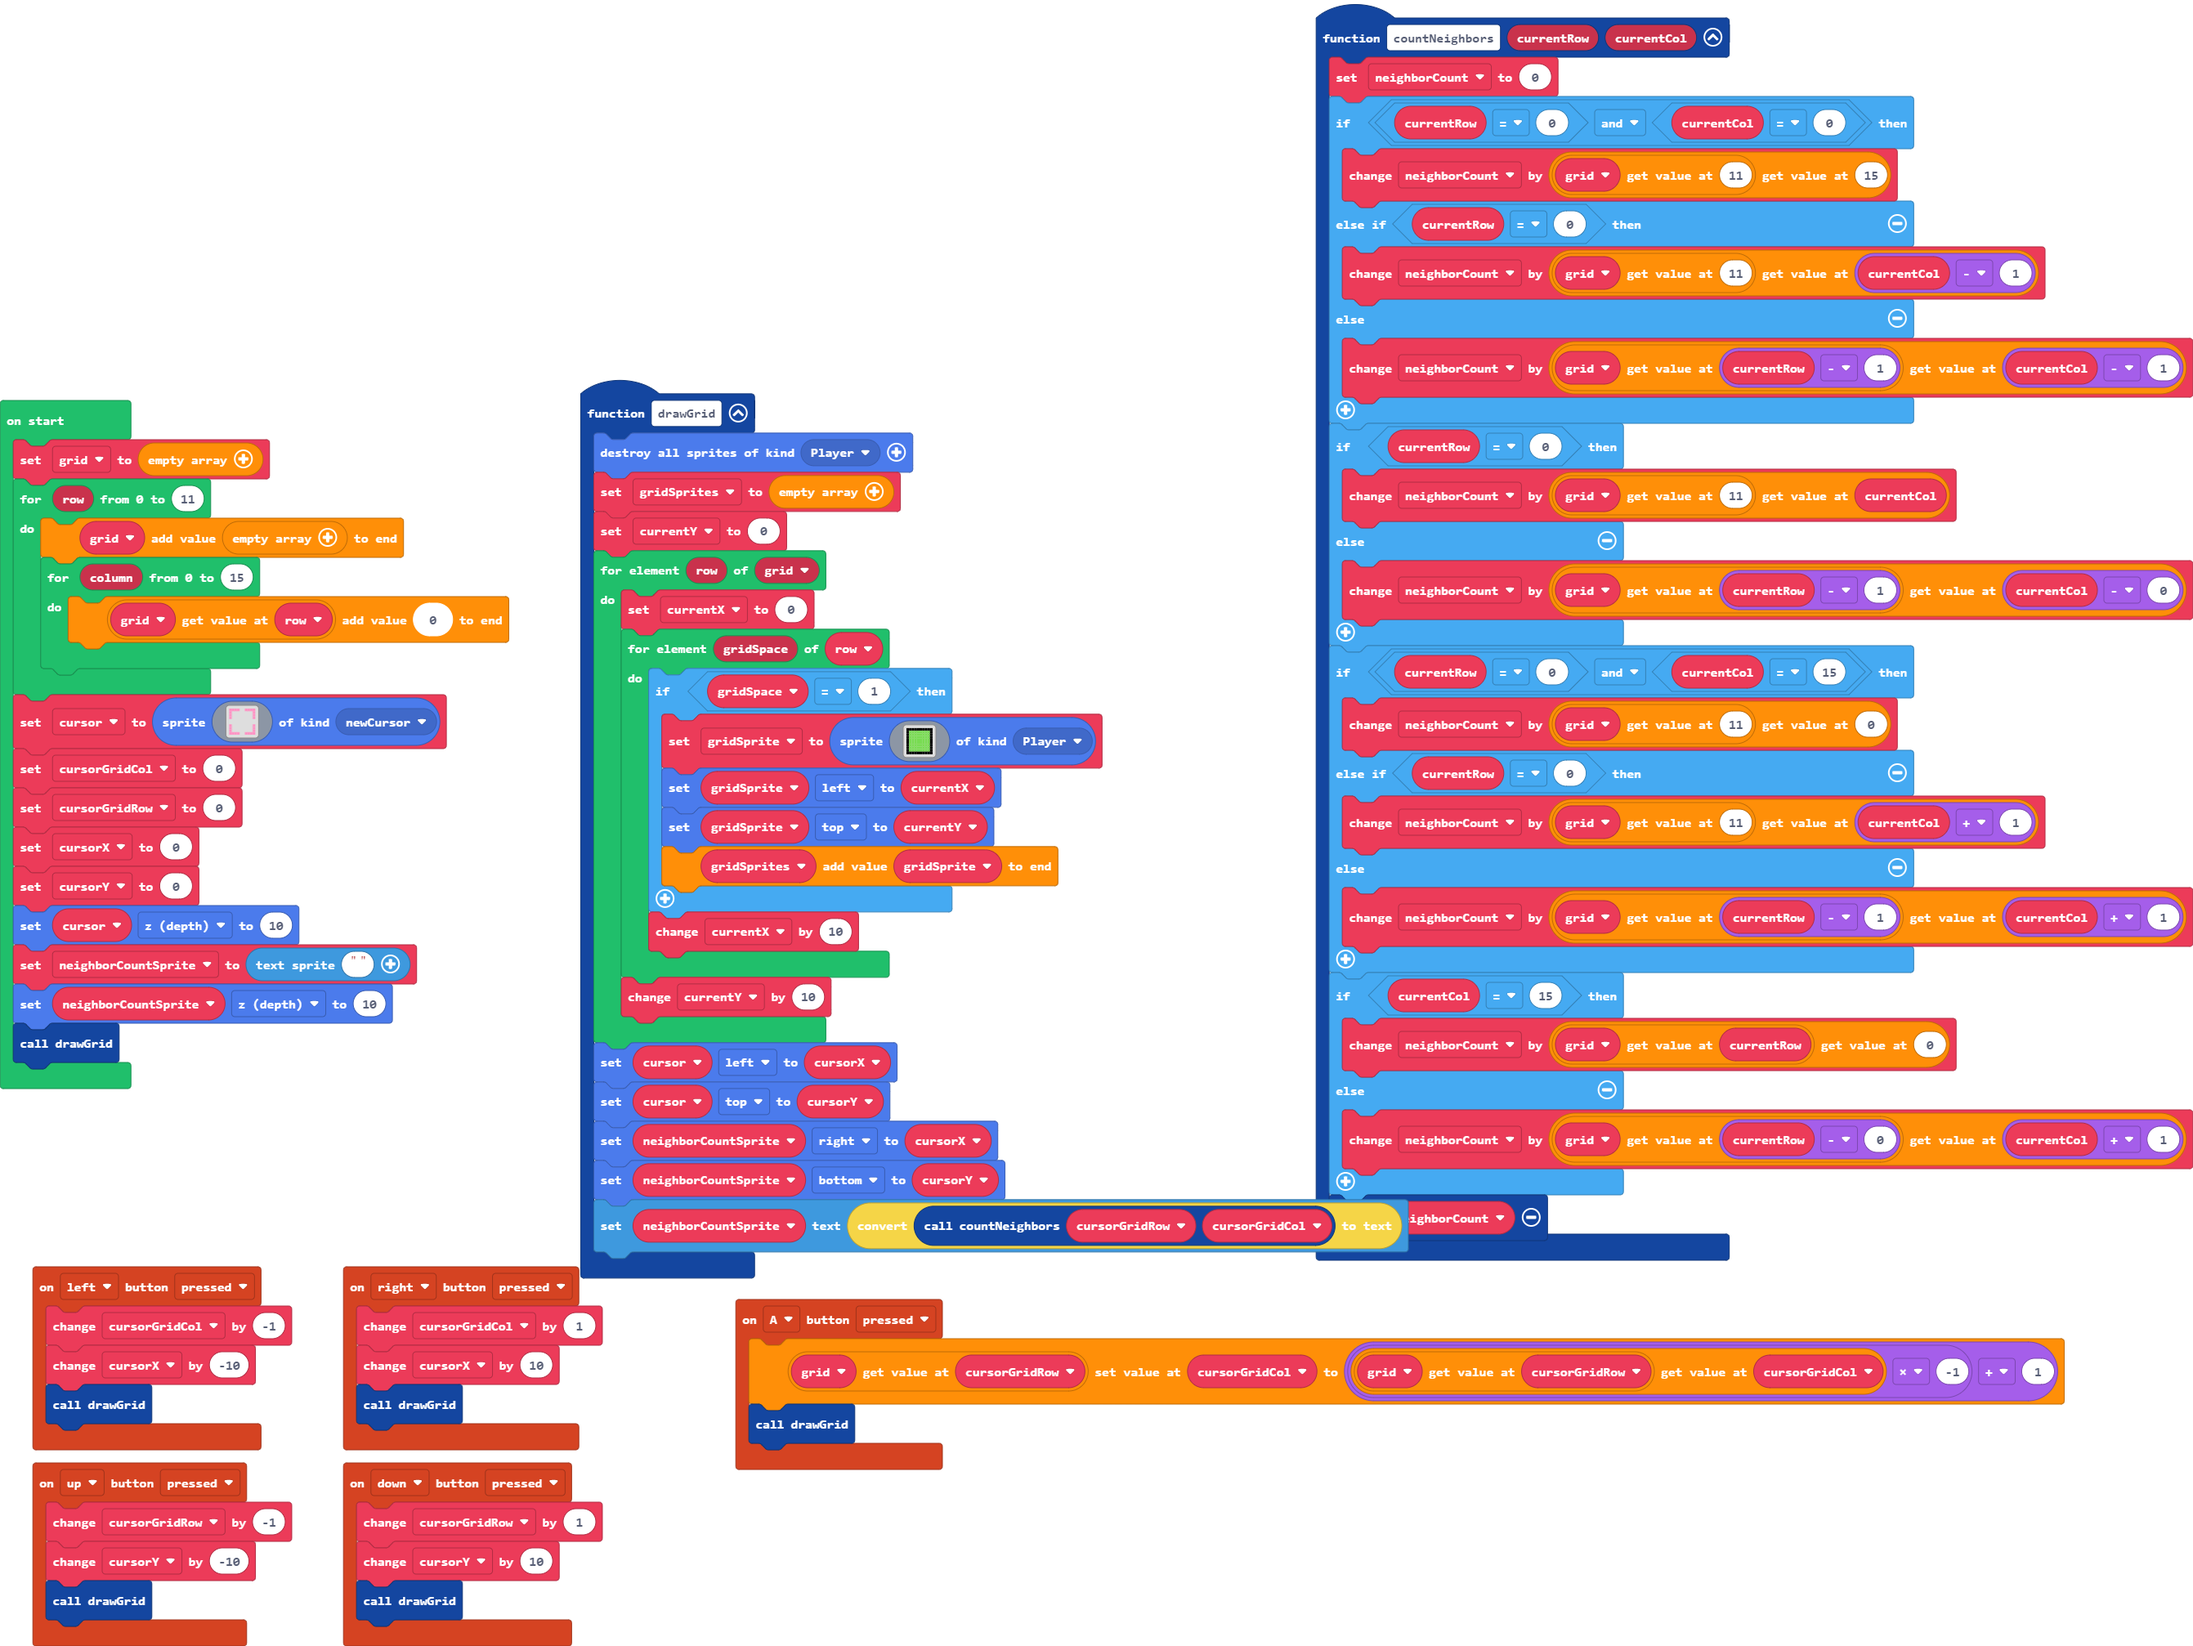
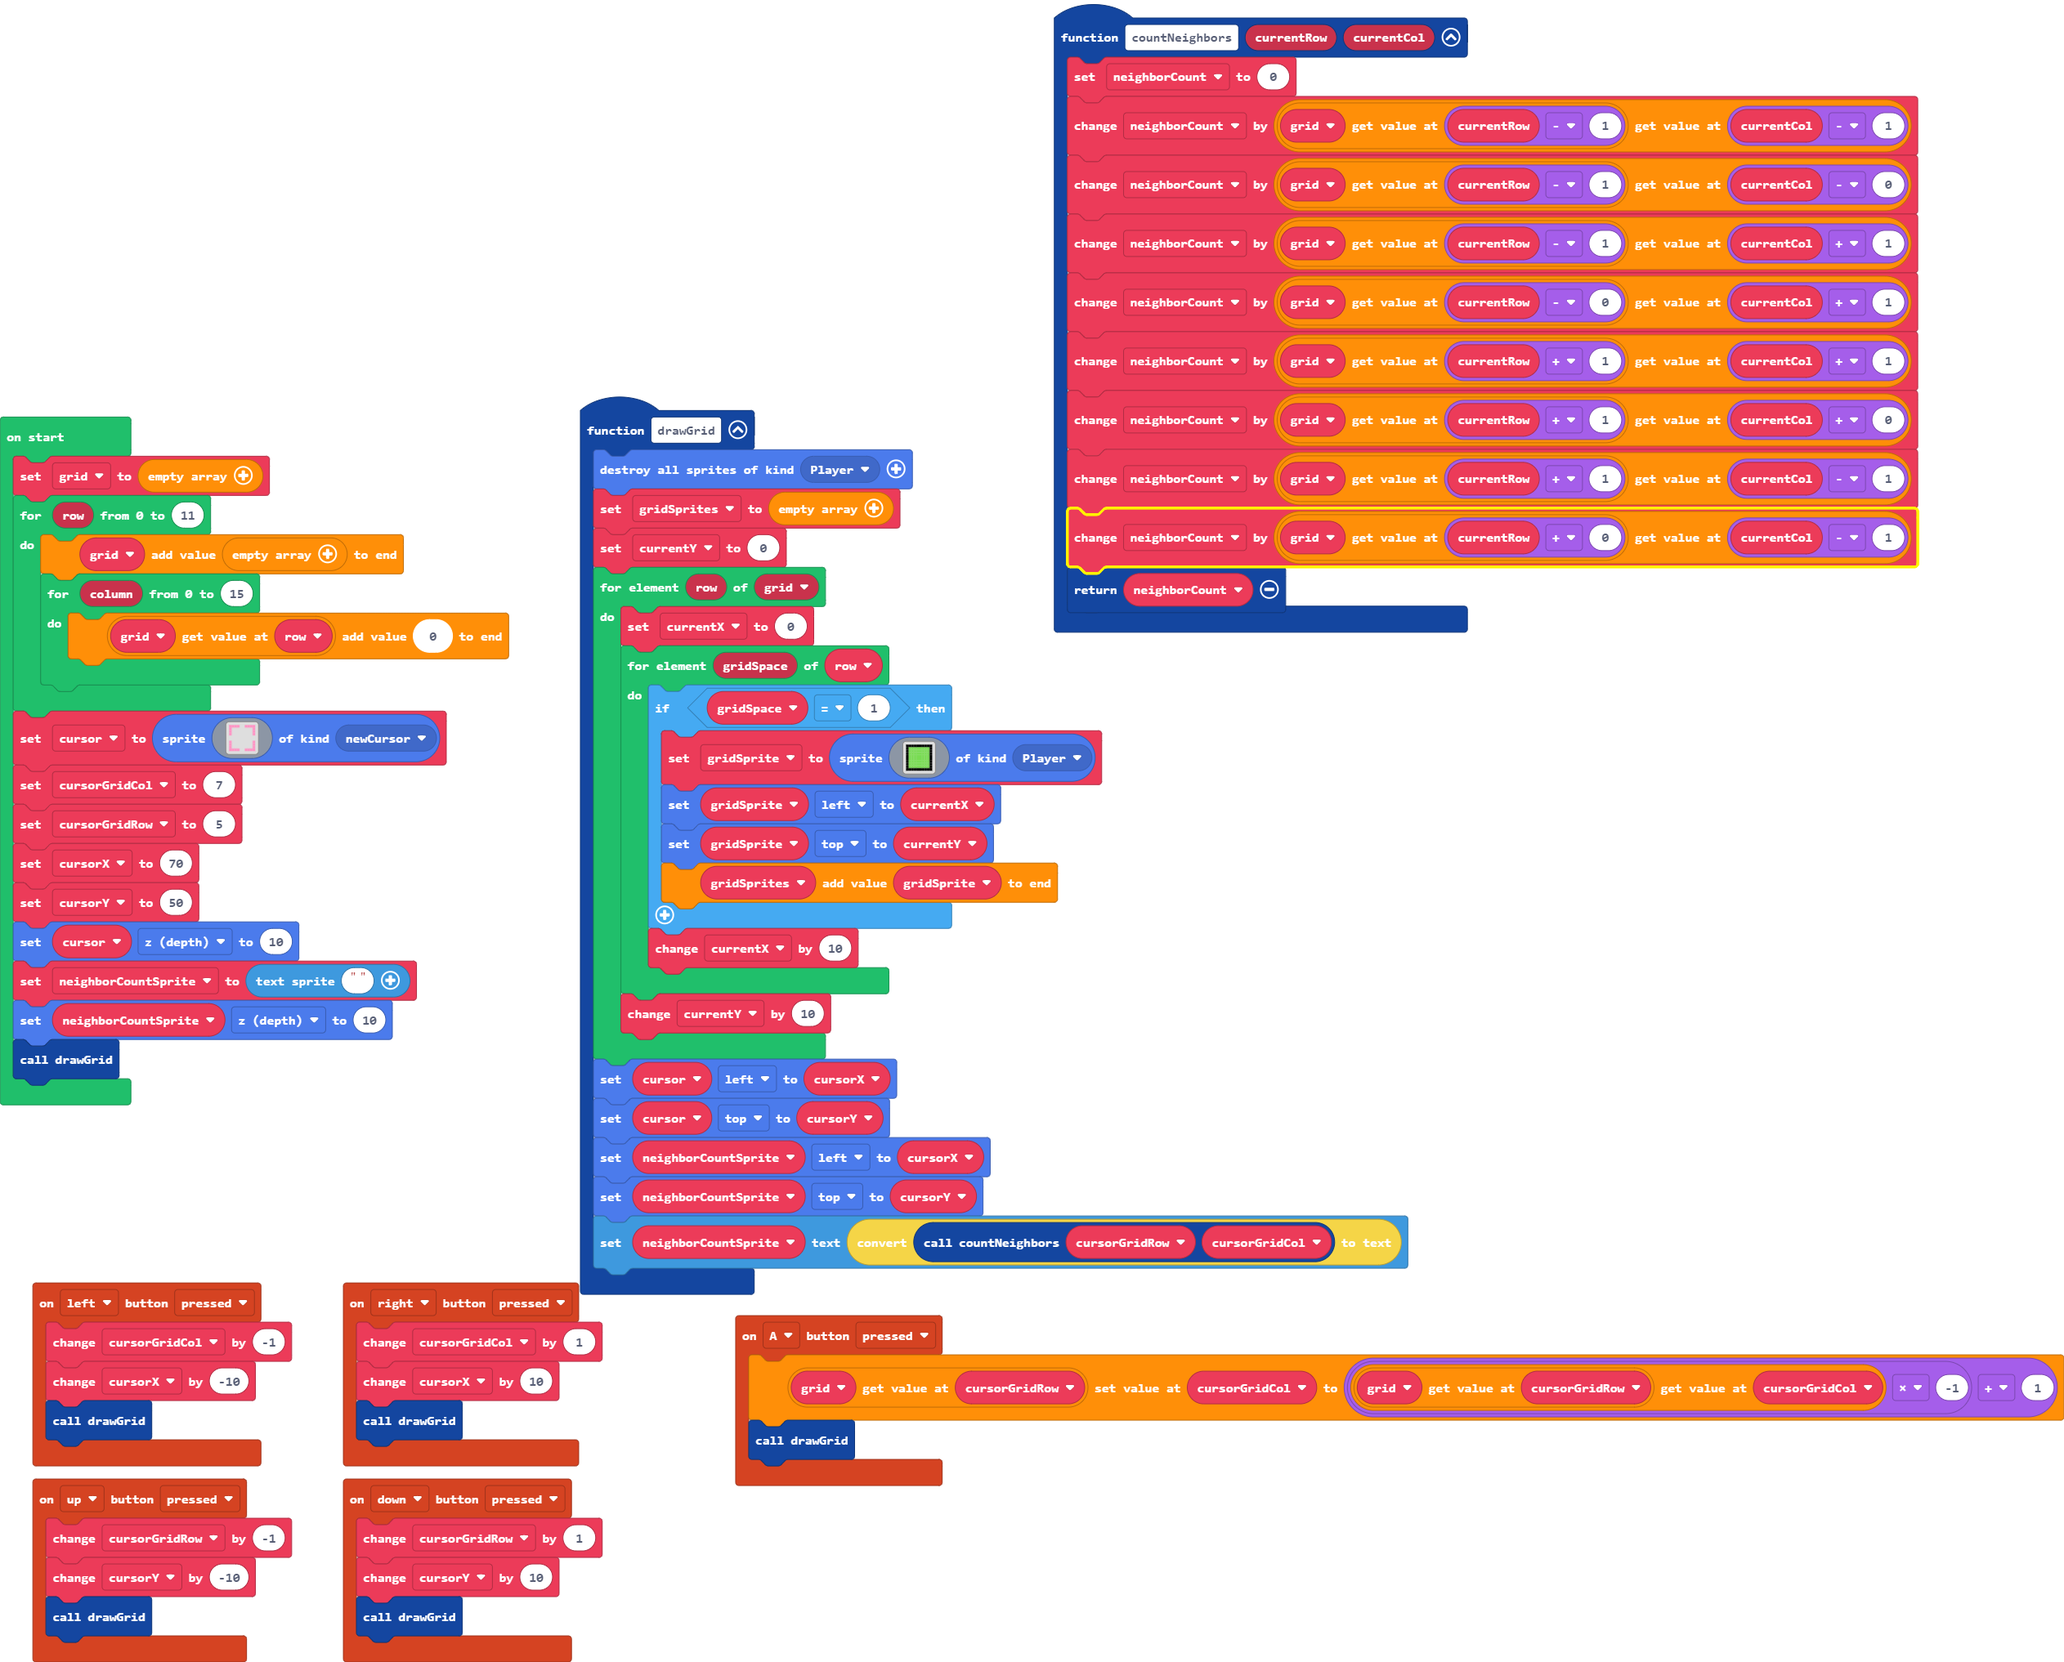
counting without edge

diff --git a/main.ts b/main.ts
@@ -51,36 +51,20 @@ function drawGrid () {
     }
     cursor.left = cursorX
     cursor.top = cursorY
-    neighborCountSprite.right = cursorX
-    neighborCountSprite.bottom = cursorY
+    neighborCountSprite.left = cursorX
+    neighborCountSprite.top = cursorY
     neighborCountSprite.setText(convertToText(countNeighbors(cursorGridRow, cursorGridCol)))
 }
 function countNeighbors (currentRow: number, currentCol: number) {
     neighborCount = 0
-    if (currentRow == 0 && currentCol == 0) {
-        neighborCount += grid[11][15]
-    } else if (currentRow == 0) {
-        neighborCount += grid[11][currentCol - 1]
-    } else {
-        neighborCount += grid[currentRow - 1][currentCol - 1]
-    }
-    if (currentRow == 0) {
-        neighborCount += grid[11][currentCol]
-    } else {
-        neighborCount += grid[currentRow - 1][currentCol - 0]
-    }
-    if (currentRow == 0 && currentCol == 15) {
-        neighborCount += grid[11][0]
-    } else if (currentRow == 0) {
-        neighborCount += grid[11][currentCol + 1]
-    } else {
-        neighborCount += grid[currentRow - 1][currentCol + 1]
-    }
-    if (currentCol == 15) {
-        neighborCount += grid[currentRow][0]
-    } else {
-        neighborCount += grid[currentRow - 0][currentCol + 1]
-    }
+    neighborCount += grid[currentRow - 1][currentCol - 1]
+    neighborCount += grid[currentRow - 1][currentCol - 0]
+    neighborCount += grid[currentRow - 1][currentCol + 1]
+    neighborCount += grid[currentRow - 0][currentCol + 1]
+    neighborCount += grid[currentRow + 1][currentCol + 1]
+    neighborCount += grid[currentRow + 1][currentCol + 0]
+    neighborCount += grid[currentRow + 1][currentCol - 1]
+    neighborCount += grid[currentRow + 0][currentCol - 1]
     return neighborCount
 }
 controller.down.onEvent(ControllerButtonEvent.Pressed, function () {
@@ -119,10 +103,10 @@ cursor = sprites.create(img`
     3 . . . . . . . . 3 
     3 3 3 3 . . 3 3 3 3 
     `, SpriteKind.newCursor)
-cursorGridCol = 0
-cursorGridRow = 0
-cursorX = 0
-cursorY = 0
+cursorGridCol = 7
+cursorGridRow = 5
+cursorX = 70
+cursorY = 50
 cursor.z = 10
 neighborCountSprite = textsprite.create("")
 neighborCountSprite.z = 10
